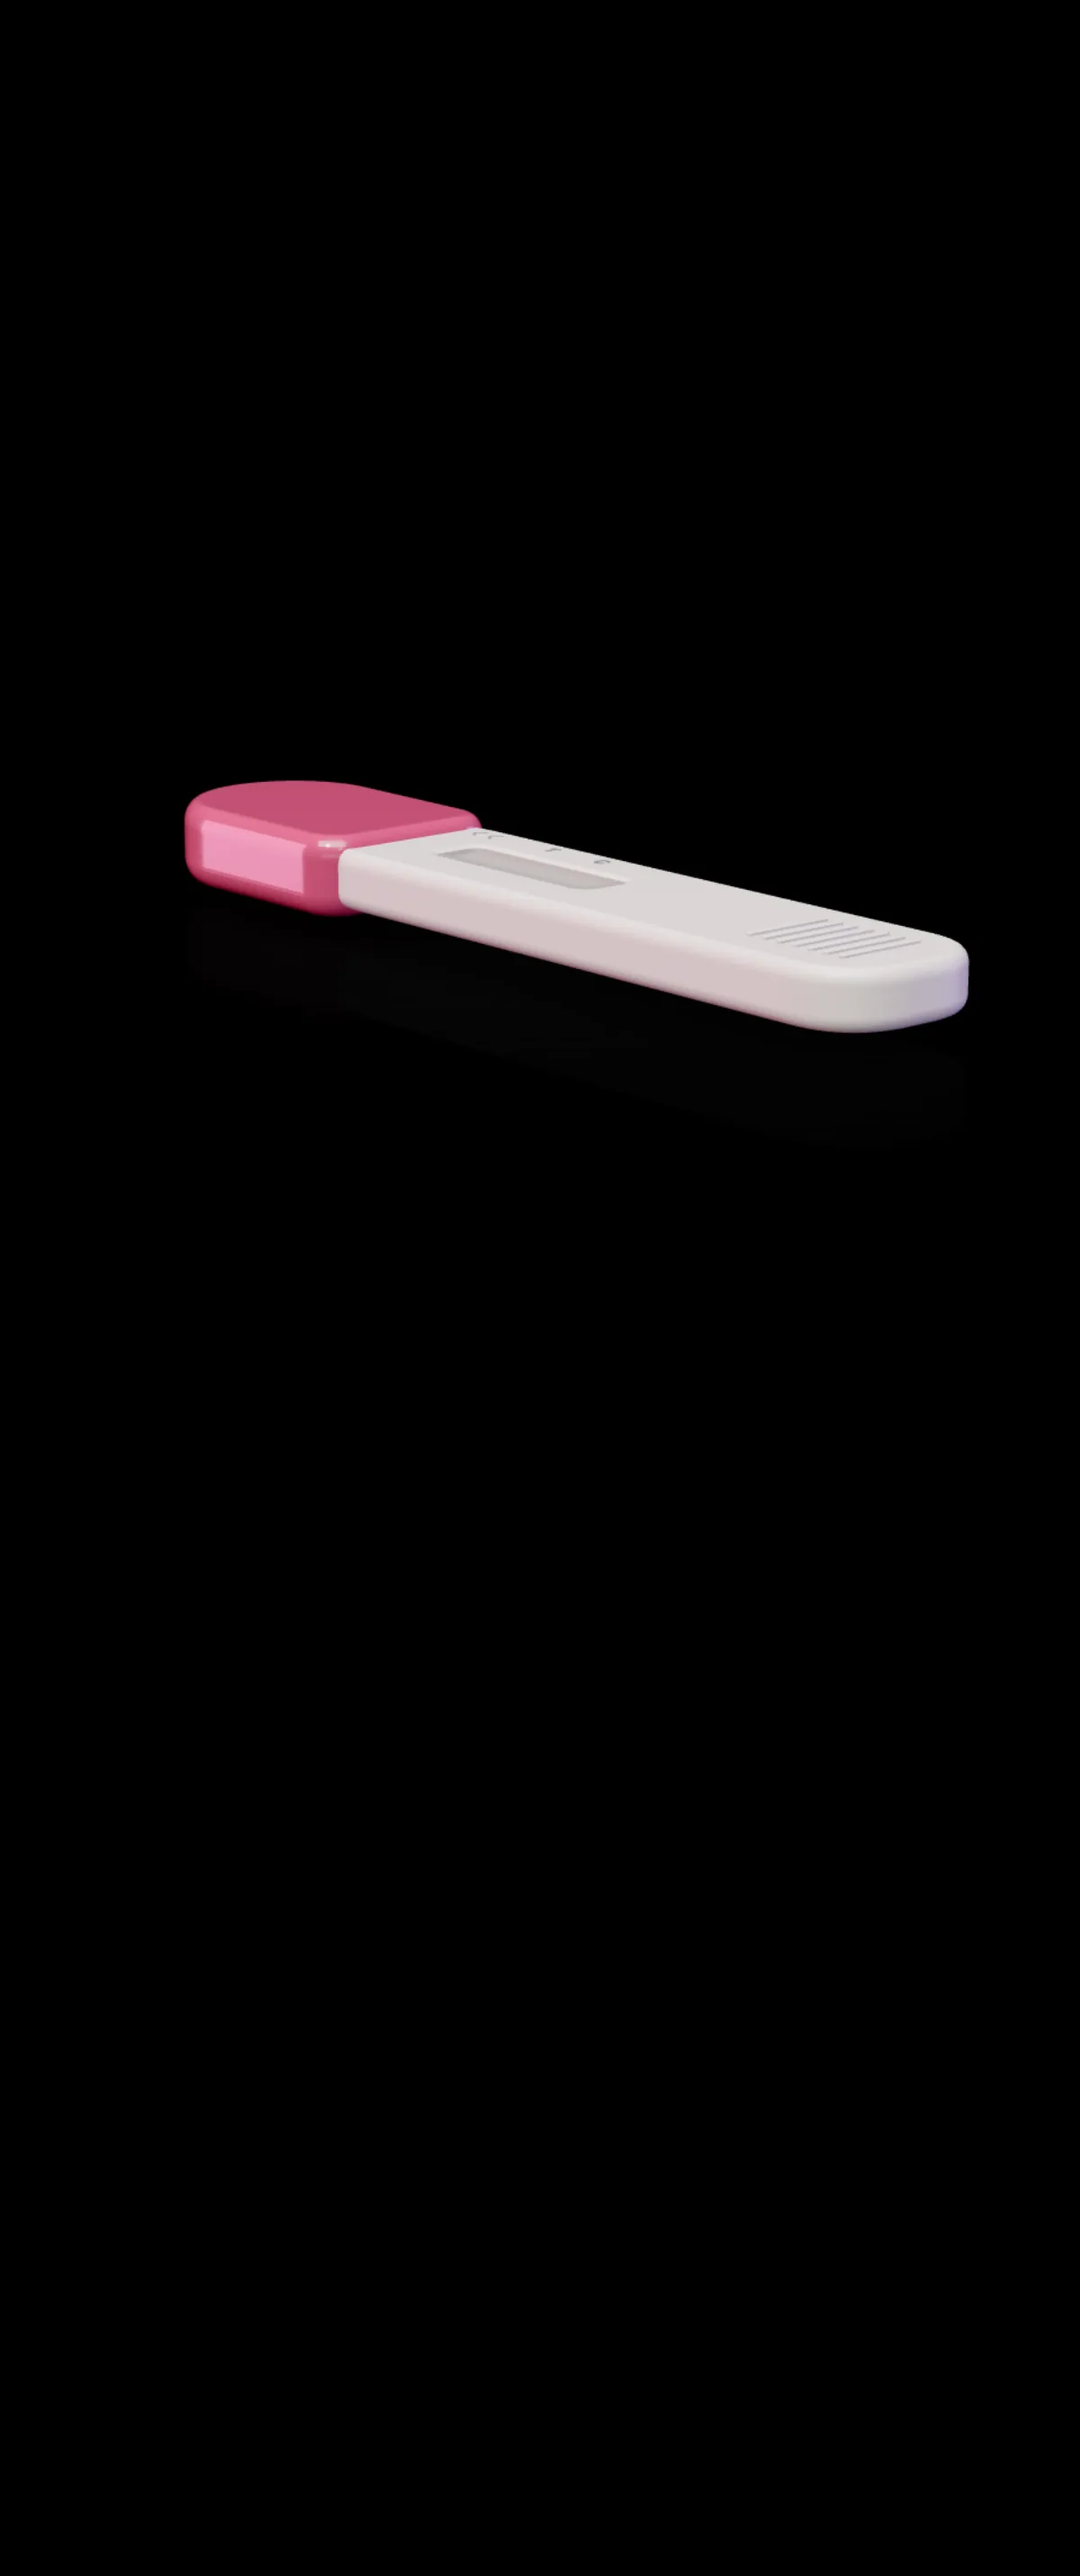
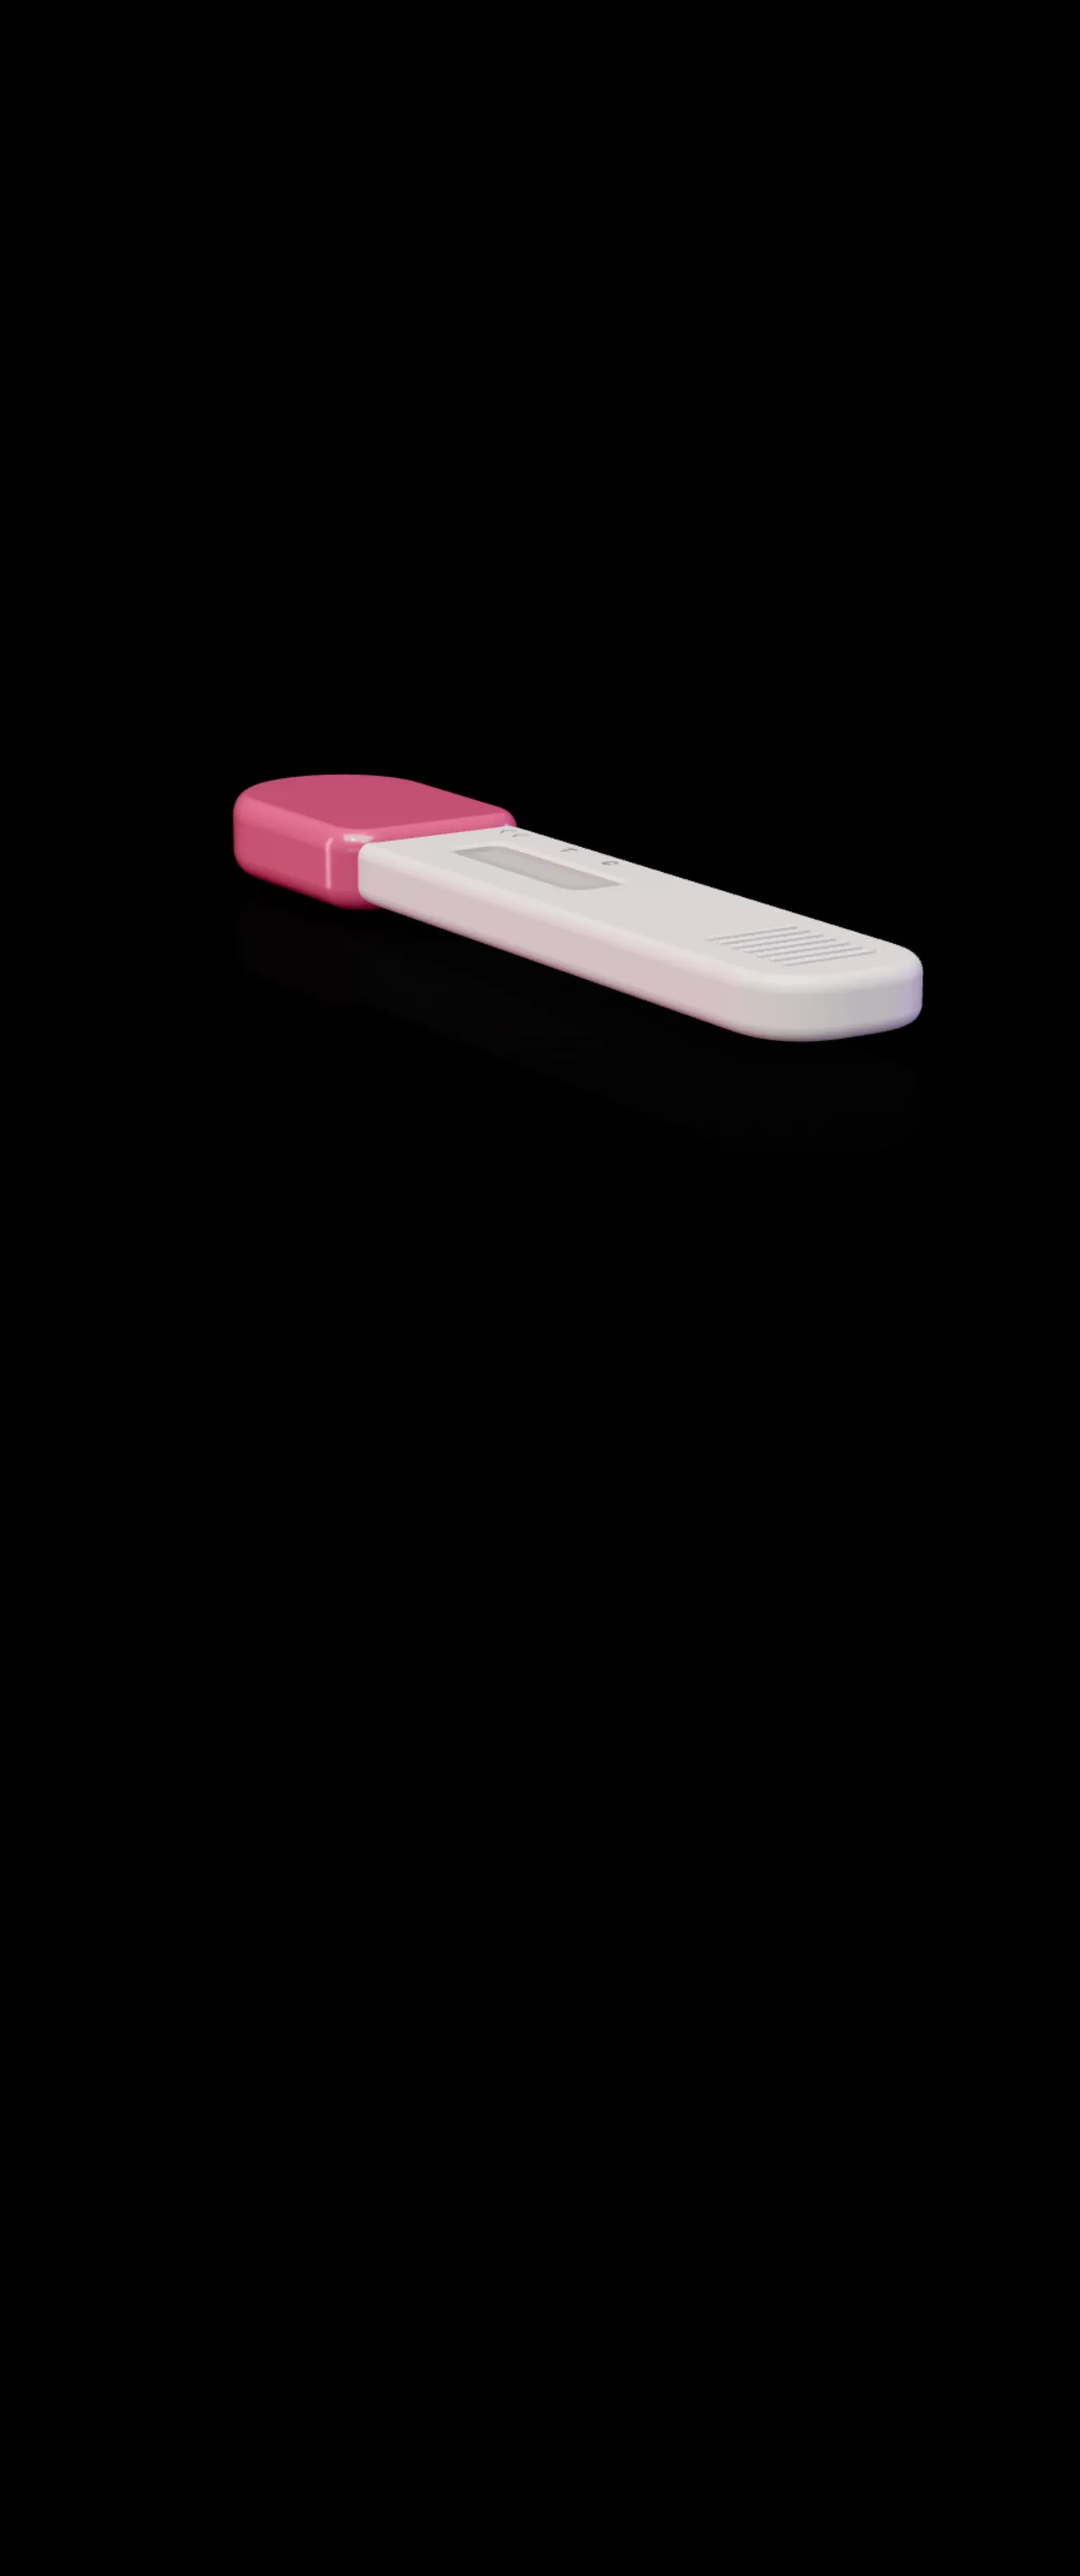
Fix rendering glitches on the 3D test model
- Rounded edges were faceted: ExtrudeGeometry is non-indexed, so its
  normals are flat per face, which showed as stair-steps and stray glints
  in the reflections. Normals are now rebuilt with toCreasedNormals and
  the bevels use 28 segments, so the cap and body curves shade smoothly.
- The control line and the liquid front were alpha-hashed overlays, which
  showed as grain on 1x screens. Both are now drawn into the strip's own
  opaque material (paper, a wet wash behind the front, dye mixed in by a
  soft mask), so they are clean at any DPR and still show through the
  transmissive window. LineC and LineT remain as named locator nodes.
- The dye line's edges are soft and gently uneven instead of zigzagged.
- The absorbent tip under the cap now reads as a fibrous pad (fiber
  normal map, softer rounded shape) instead of smooth plastic.
- The plastic's micro-texture is subtler, so it no longer looks sandy up
  close.
- All four posters are re-rendered from the updated scene so the still
  still hands over to the live canvas without a visible change.

Changed region(s): [[0.1542, 0.2801, 0.5242, 0.3734], [0.5242, 0.3423, 0.8942, 0.4045]]

diff --git a/apps/web/components/test-model/pregnancy-test.tsx b/apps/web/components/test-model/pregnancy-test.tsx
@@ -14,7 +14,7 @@ import { useFrame, type ThreeElements } from "@react-three/fiber";
 import { useMemo, useRef } from "react";
 import * as THREE from "three";
 
-import { codeInk, dyeLine, markings, paperRoughness, plasticNormal, wickFront, windowSmudge } from "./textures";
+import { codeInk, fiberNormal, markings, paperRoughness, plasticNormal, stripDyeMask, windowSmudge } from "./textures";
 
 export type Quality = "high" | "medium" | "low";
 
@@ -65,12 +65,13 @@ function slab(shape: THREE.Shape, thickness: number, bevel: number, bevelSize = 
     bevelEnabled: true,
     bevelThickness: bevel,
     bevelSize,
-    bevelSegments: 10,
+    bevelSegments: 28,
     curveSegments: 48,
   });
+  // ExtrudeGeometry is non-indexed and ships smooth normals; recomputing them here would give
+  // flat per-face shading (visible as stair-steps on every rounded edge).
   geometry.rotateX(-Math.PI / 2);
   geometry.translate(0, bevel, 0);
-  geometry.computeVertexNormals();
   return geometry;
 }
 
@@ -102,6 +103,53 @@ function useGeometry() {
   }, []);
 }
 
+// The strip, in strip-length units: where it starts and how long it is (see the Strip mesh).
+const STRIP_X0 = WIN.x0 - 0.2;
+const STRIP_LEN = WIN.x1 - WIN.x0 + 0.4;
+const LINE_WIDTH = 0.3;
+
+type StripUniforms = { uLine: { value: number }; uFront: { value: number }; uFrontAmount: { value: number } };
+
+/**
+ * Nitrocellulose strip with its liquid front and control line drawn into the material itself:
+ * paper, then a pink wash as the sample wicks along, then dye mixed in by a soft, uneven mask.
+ * Everything is opaque, so there is no alpha-hash grain and the window's transmission sees it all.
+ */
+function stripMaterial(roughness: THREE.Texture) {
+  const material = new THREE.MeshStandardMaterial({
+    color: "#f6f4ef",
+    roughness: 0.95,
+    roughnessMap: roughness,
+    // The map slot carries the dye mask; the shader below reads it as a mask, not a color.
+    map: stripDyeMask((LINE_X.C - STRIP_X0) / STRIP_LEN, LINE_WIDTH / STRIP_LEN),
+  });
+  const uniforms: StripUniforms = { uLine: { value: 0 }, uFront: { value: -1 }, uFrontAmount: { value: 0 } };
+  material.userData.uniforms = uniforms;
+  material.onBeforeCompile = (shader) => {
+    Object.assign(shader.uniforms, uniforms, {
+      uInk: { value: new THREE.Color("#b0104f") },
+      uWash: { value: new THREE.Color("#f0c4d8") },
+    });
+    shader.fragmentShader = shader.fragmentShader
+      .replace(
+        "#include <common>",
+        "#include <common>\nuniform float uLine;\nuniform float uFront;\nuniform float uFrontAmount;\nuniform vec3 uInk;\nuniform vec3 uWash;",
+      )
+      .replace(
+        "#include <map_fragment>",
+        `#ifdef USE_MAP
+          float u = vMapUv.x;
+          // Wet band just behind the liquid front, fading back toward the tip.
+          float wash = smoothstep(uFront - 0.3, uFront, u) * (1.0 - smoothstep(uFront, uFront + 0.015, u));
+          diffuseColor.rgb = mix(diffuseColor.rgb, uWash, wash * uFrontAmount);
+          float dye = texture2D(map, vMapUv).g * uLine;
+          diffuseColor.rgb = mix(diffuseColor.rgb, uInk, dye);
+        #endif`,
+      );
+  };
+  return material;
+}
+
 function useMaterials(quality: Quality) {
   return useMemo(() => {
     const normal = plasticNormal();
@@ -117,13 +165,13 @@ function useMaterials(quality: Quality) {
           sheenRoughness: 0.8,
           sheenColor: new THREE.Color("#ffffff"),
           normalMap: normal,
-          normalScale: new THREE.Vector2(0.12, 0.12),
+          normalScale: new THREE.Vector2(0.06, 0.06),
         })
       : new THREE.MeshStandardMaterial({
           color: "#f1eee8",
           roughness: 0.45,
           normalMap: normal,
-          normalScale: new THREE.Vector2(0.12, 0.12),
+          normalScale: new THREE.Vector2(0.06, 0.06),
         });
 
     const cap = physical
@@ -162,33 +210,15 @@ function useMaterials(quality: Quality) {
         });
 
     const paperRough = paperRoughness();
-    const strip = new THREE.MeshStandardMaterial({ color: "#f6f4ef", roughness: 0.95, roughnessMap: paperRough });
-    const wick = new THREE.MeshStandardMaterial({ color: "#f3f1ea", roughness: 1, roughnessMap: paperRough });
+    const strip = stripMaterial(paperRough);
+    // The absorbent tip: fibrous, faintly warm and fully matte, not molded plastic.
+    const wick = new THREE.MeshStandardMaterial({
+      color: "#ece6d8",
+      roughness: 1,
+      normalMap: fiberNormal(),
+      normalScale: new THREE.Vector2(1.0, 1.0),
+    });
 
-    // With a transmissive window the dye must be alpha-hashed, because the transmission pass only
-    // sees opaque meshes (at high DPR the hash reads as dye grain). The low tier's plain pane
-    // allows ordinary blending.
-    const dye = new THREE.MeshStandardMaterial({
-      color: "#b0104f",
-      roughness: 0.95,
-      alphaHash: physical,
-      transparent: !physical,
-      depthWrite: physical,
-      alphaMap: dyeLine(),
-      opacity: 0,
-      polygonOffset: true,
-      polygonOffsetFactor: -2,
-    });
-    const front = new THREE.MeshBasicMaterial({
-      color: "#f0c4d8",
-      alphaHash: physical,
-      transparent: !physical,
-      depthWrite: physical,
-      alphaMap: wickFront(),
-      opacity: 0,
-      polygonOffset: true,
-      polygonOffsetFactor: -1,
-    });
     const print = new THREE.MeshStandardMaterial({
       map: markings(),
       transparent: true,
@@ -198,7 +228,7 @@ function useMaterials(quality: Quality) {
       polygonOffsetFactor: -2,
     });
 
-    return { body, cap, pane, strip, wick, dye, front, print };
+    return { body, cap, pane, strip, wick, print };
   }, [quality]);
 }
 
@@ -226,8 +256,7 @@ export function PregnancyTest({
   }, [showCode, code]);
 
   const capRef = useRef<THREE.Mesh>(null);
-  const frontRef = useRef<THREE.Mesh<THREE.BufferGeometry, THREE.Material>>(null);
-  const lineRef = useRef<THREE.Mesh<THREE.BufferGeometry, THREE.Material>>(null);
+  const stripRef = useRef<THREE.Mesh<THREE.BufferGeometry, THREE.Material>>(null);
   const inkRef = useRef<THREE.Mesh<THREE.BufferGeometry, THREE.Material>>(null);
   const progress = useRef<number | null>(null);
   const lift = useRef<number | null>(null);
@@ -241,16 +270,15 @@ export function PregnancyTest({
     lift.current = THREE.MathUtils.damp(lift.current ?? targetLift, targetLift, 3, dt);
     const p = progress.current;
 
-    // Liquid front runs along the strip in the first half, then fades as it passes.
-    const run = THREE.MathUtils.clamp(p / 0.55, 0, 1);
-    const frontX = THREE.MathUtils.lerp(WIN.x0 - 0.5, WIN.x1 + 0.6, run);
-    if (frontRef.current) {
-      frontRef.current.position.x = frontX - 0.6;
-      frontRef.current.material.opacity = run > 0 && run < 1 ? 0.55 * Math.sin(run * Math.PI) : 0;
+    // Liquid front runs along the strip in the first half, then fades as it passes; the control
+    // line develops once the liquid has passed it.
+    const strip = stripRef.current?.material.userData.uniforms as StripUniforms | undefined;
+    if (strip) {
+      const run = THREE.MathUtils.clamp(p / 0.55, 0, 1);
+      strip.uFront.value = THREE.MathUtils.lerp(-0.1, 1.15, run);
+      strip.uFrontAmount.value = run > 0 && run < 1 ? 0.55 * Math.sin(run * Math.PI) : 0;
+      strip.uLine.value = THREE.MathUtils.smoothstep(p, 0.38, 1);
     }
-    // Control line develops once the liquid has passed it.
-    if (lineRef.current) lineRef.current.material.opacity = THREE.MathUtils.smoothstep(p, 0.38, 1);
-
     if (inkRef.current) inkRef.current.material.opacity = THREE.MathUtils.clamp(read(codeReveal), 0, 1);
 
     const l = lift.current;
@@ -282,7 +310,7 @@ export function PregnancyTest({
           <planeGeometry args={[MARK.width, MARK.width / 4]} />
         </mesh>
         {/* Absorbent tip, hidden under the cap until it lifts. */}
-        <RoundedBox name="Wick" args={[2.7, 0.42, 1.5]} radius={0.14} smoothness={4} position={[-4.75, THICK / 2, 0]} material={materials.wick} />
+        <RoundedBox name="Wick" args={[2.7, 0.5, 1.56]} radius={0.22} smoothness={6} position={[-4.75, THICK / 2, 0]} material={materials.wick} />
         {ink ? (
           <mesh ref={inkRef} position={[2.3, THICK + 0.003, 0]} rotation-x={-Math.PI / 2} material={ink}>
             <planeGeometry args={[2.1, 1.05]} />
@@ -291,19 +319,13 @@ export function PregnancyTest({
       </group>
 
       <group name="Strip">
-        <mesh position={[(WIN.x0 + WIN.x1) / 2, STRIP_Y, 0]} rotation-x={-Math.PI / 2} material={materials.strip} receiveShadow>
-          <planeGeometry args={[WIN.x1 - WIN.x0 + 0.4, WIN.halfW * 2 + 0.2]} />
+        <mesh ref={stripRef} position={[STRIP_X0 + STRIP_LEN / 2, STRIP_Y, 0]} rotation-x={-Math.PI / 2} material={materials.strip} receiveShadow>
+          <planeGeometry args={[STRIP_LEN, WIN.halfW * 2 + 0.2]} />
         </mesh>
-        <mesh ref={frontRef} position={[WIN.x0, STRIP_Y + 0.001, 0]} rotation-x={-Math.PI / 2} material={materials.front}>
-          <planeGeometry args={[1.2, WIN.halfW * 2 + 0.1]} />
-        </mesh>
-        <mesh name="LineC" ref={lineRef} position={[LINE_X.C, STRIP_Y + 0.002, 0]} rotation-x={-Math.PI / 2} material={materials.dye}>
-          <planeGeometry args={[0.3, WIN.halfW * 2 - 0.04]} />
-        </mesh>
-        {/* Never shown (see the content rule above). */}
-        <mesh name="LineT" visible={false} position={[LINE_X.T, STRIP_Y + 0.002, 0]} rotation-x={-Math.PI / 2}>
-          <planeGeometry args={[0.22, WIN.halfW * 2 - 0.04]} />
-        </mesh>
+        {/* Locators for GLB parity. The control line is drawn into the strip's material at LineC;
+            LineT is never shown (see the content rule above). */}
+        <group name="LineC" position={[LINE_X.C, STRIP_Y, 0]} />
+        <group name="LineT" position={[LINE_X.T, STRIP_Y, 0]} visible={false} />
       </group>
 
       <mesh name="Window" geometry={geometry.windowPane} material={materials.pane} />

diff --git a/apps/web/components/test-model/textures.ts b/apps/web/components/test-model/textures.ts
@@ -118,27 +118,61 @@ export function paperRoughness(): THREE.CanvasTexture {
   });
 }
 
+/** The absorbent tip: a dense felt of fibers, as a normal map so it reads as a soft pad. */
+export function fiberNormal(): THREE.CanvasTexture {
+  return cached("fiberNormal", () => {
+    const size = 256;
+    const { ctx } = canvas(size, size);
+    const rand = rng(61);
+    ctx.fillStyle = "rgb(128,128,128)";
+    ctx.fillRect(0, 0, size, size);
+    for (let i = 0; i < 2600; i++) {
+      const x = rand() * size;
+      const y = rand() * size;
+      const a = rand() * Math.PI;
+      const len = 4 + rand() * 14;
+      const v = rand() < 0.5 ? 70 + rand() * 40 : 170 + rand() * 60;
+      ctx.strokeStyle = `rgba(${v},${v},${v},0.6)`;
+      ctx.lineWidth = 0.8 + rand() * 1.2;
+      ctx.beginPath();
+      ctx.moveTo(x, y);
+      ctx.lineTo(x + Math.cos(a) * len, y + Math.sin(a) * len);
+      ctx.stroke();
+    }
+    const data = ctx.getImageData(0, 0, size, size).data;
+    const height = new Float32Array(size * size);
+    for (let i = 0; i < height.length; i++) height[i] = data[i * 4] / 255;
+    const texture = heightToNormal(height, size, 5);
+    // About 1.4 cm per tile, so single fibers are visible up close.
+    texture.repeat.set(0.7, 0.7);
+    return texture;
+  });
+}
+
 /**
- * Absorbed dye: a soft band across the strip whose density varies along its length and whose
- * edges bleed. Used as an alpha map (green channel), so the color stays in the material.
+ * Where the control line's dye sits on the strip, as a mask the size of the whole strip: a soft
+ * band whose density varies along its length and whose edges bleed. The strip material mixes dye
+ * into the paper by this mask, so the line is opaque (no transparency, no alpha-hash grain) and
+ * shows through the transmissive window like the paper around it.
+ * @param center where the line sits along the strip, 0-1
+ * @param width  the line's width as a fraction of the strip's length
  */
-export function dyeLine(): THREE.CanvasTexture {
-  return cached("dyeLine", () => {
-    const w = 64;
-    const h = 256;
+export function stripDyeMask(center: number, width: number): THREE.CanvasTexture {
+  return cached(`stripDyeMask:${center}:${width}`, () => {
+    const w = 1024;
+    const h = 128;
     const { el, ctx } = canvas(w, h);
     const img = ctx.createImageData(w, h);
     const density = valueNoise(h, 16, 41);
-    const edge = valueNoise(h, 40, 43);
+    const edge = valueNoise(h, 8, 43);
+    const lineW = width * w;
     for (let y = 0; y < h; y++) {
-      // Density along the line, and a slightly wandering center.
       const d = 0.85 + density[y] * 0.15;
-      const center = w / 2 + (edge[y] - 0.5) * 3;
-      const endFade = Math.min(1, y / 8, (h - 1 - y) / 8);
+      const cx = center * w + (edge[y] - 0.5) * lineW * 0.05;
+      const endFade = Math.min(1, y / 6, (h - 1 - y) / 6);
       for (let x = 0; x < w; x++) {
-        const dist = Math.abs(x - center) / (w * 0.2);
-        const profile = Math.exp(-Math.pow(dist, 2.6));
-        // Dense core, soft bleeding edges.
+        const dist = Math.abs(x - cx) / (lineW * 0.2);
+        const profile = Math.exp(-Math.pow(dist, 2.1));
         const v = Math.max(0, Math.min(1, Math.pow(profile, 0.6) * d * endFade * 1.25));
         const i = (y * w + x) * 4;
         img.data[i] = img.data[i + 1] = img.data[i + 2] = v * 255;
@@ -148,25 +182,7 @@ export function dyeLine(): THREE.CanvasTexture {
     ctx.putImageData(img, 0, 0);
     const texture = new THREE.CanvasTexture(el);
     texture.colorSpace = THREE.NoColorSpace;
-    return texture;
-  });
-}
-
-/** The moving front of liquid wicking along the strip: a soft falloff behind a sharper edge. */
-export function wickFront(): THREE.CanvasTexture {
-  return cached("wickFront", () => {
-    const w = 256;
-    const h = 32;
-    const { el, ctx } = canvas(w, h);
-    const g = ctx.createLinearGradient(0, 0, w, 0);
-    g.addColorStop(0, "rgba(255,255,255,0)");
-    g.addColorStop(0.75, "rgba(255,255,255,0.55)");
-    g.addColorStop(0.93, "rgba(255,255,255,1)");
-    g.addColorStop(1, "rgba(255,255,255,0)");
-    ctx.fillStyle = g;
-    ctx.fillRect(0, 0, w, h);
-    const texture = new THREE.CanvasTexture(el);
-    texture.colorSpace = THREE.NoColorSpace;
+    texture.anisotropy = 8;
     return texture;
   });
 }
